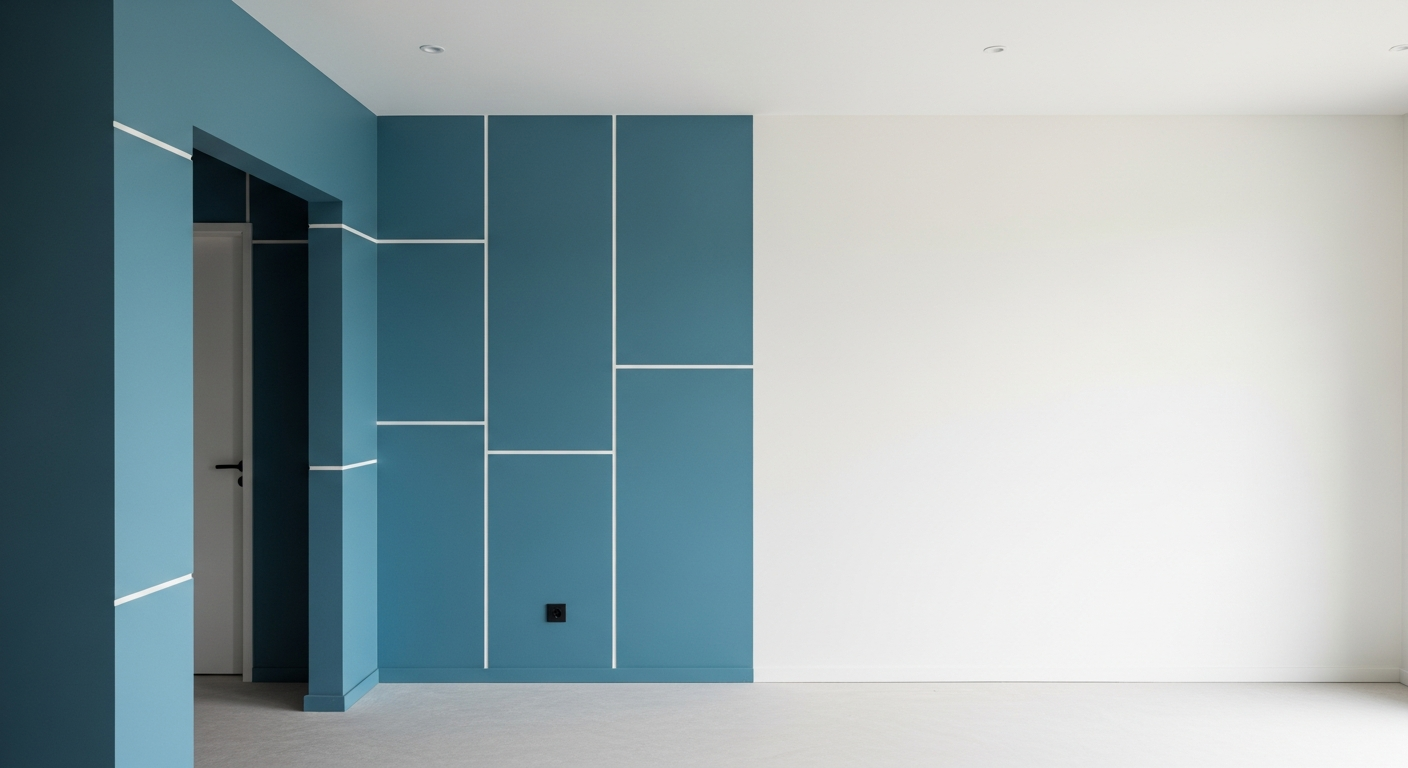
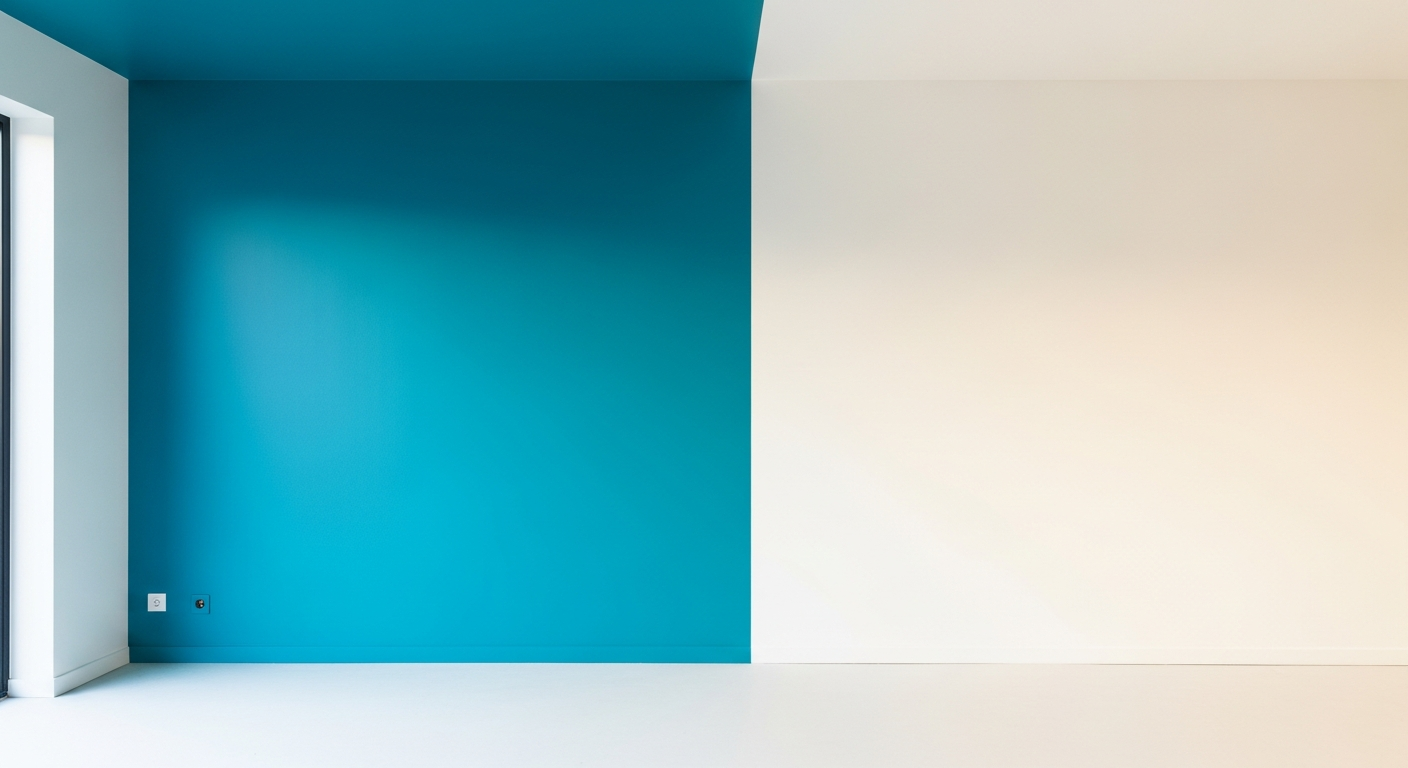
build(site): 65 pages + 2 images
via partner-site-build edge function (auto-generated)
Domain: platrier-plaquiste-rillieuxlapape69.fr
Build at: 2026-04-26T13:06:46.330Z

diff --git a/plan-du-site.html b/plan-du-site.html
@@ -89,7 +89,7 @@
 
     <h2>Réalisations</h2>
     <ul>
-      <li><a href="/realisation/chantier-rillieux-la-pape-1">chantier rillieux la pape 1</a></li>
+      
     </ul>
 
     <h2>Légales</h2>